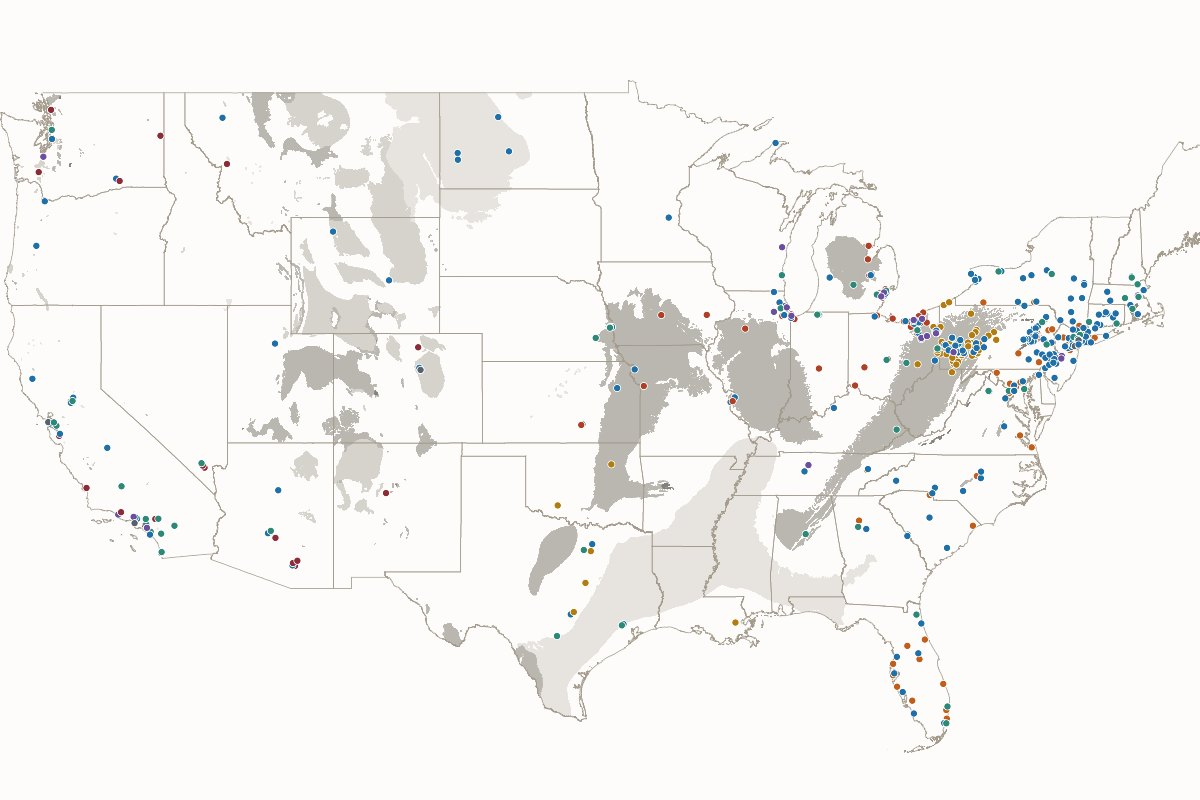
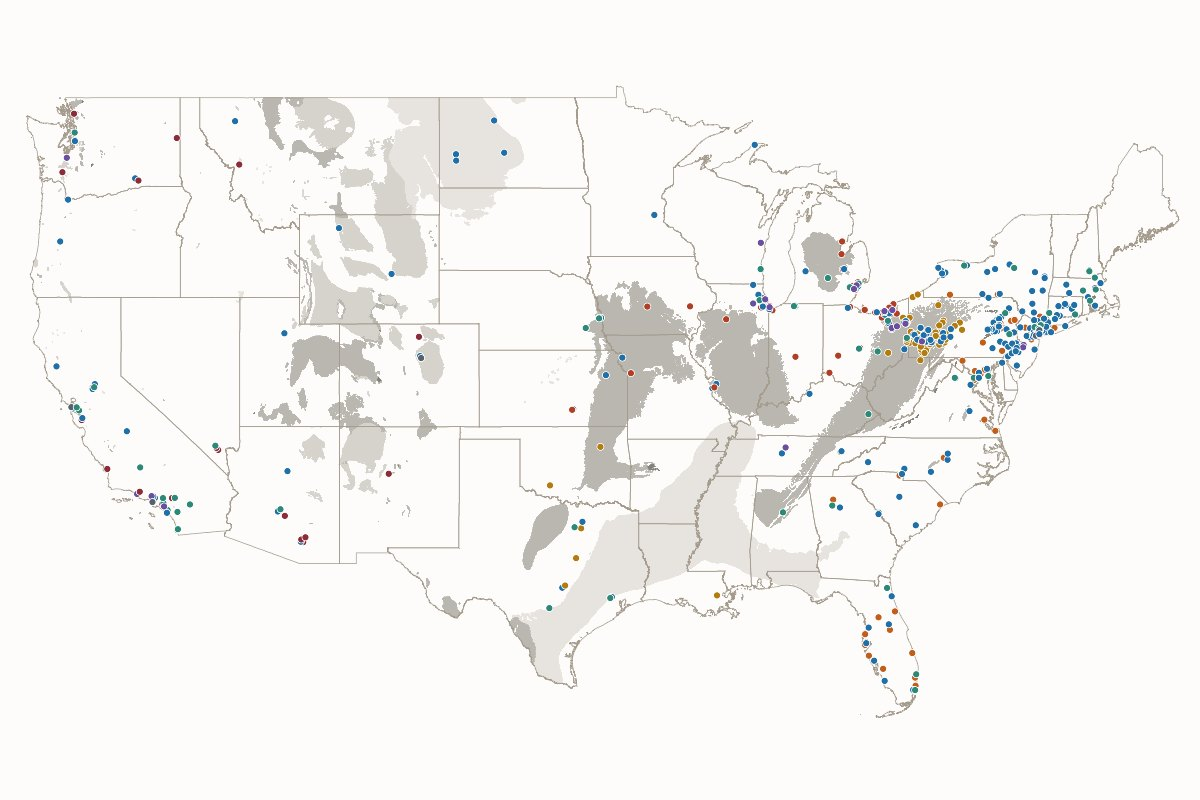
Byzantine map: David's reframed Country view and legend order, Country still recaptured
Claude-Session: https://claude.ai/code/session_01QEC429upHRsNAG5wk5xyyK

diff --git a/maps/byzantine-parishes/index.html b/maps/byzantine-parishes/index.html
@@ -26,7 +26,7 @@
     <link rel="stylesheet" href="/maps/map.css?v=a996302df4">
     <script src="/maps/lib/pmtiles.js" defer></script>
     <script type="module" src="/maps/map.js?v=dae4c55832"></script>
-    <script type="application/json" id="map-def-byzantine-parishes">{"start":"country","bounds":[-179,12,-50,73],"sources":{"vectors":{"type":"vector","url":"vectors.pmtiles"}},"layers":[{"id":"coal","type":"fill","source":"vectors","source-layer":"coal","paint":{"fill-color":["match",["get","rank"],"Anthracite","--map-coal-anthracite",["Low Volatile Bituminous","Medium and High Volatile Bituminous"],"--map-coal-bituminous","Subbituminous","--map-coal-subbituminous","--map-coal-lignite"]}},{"id":"states","type":"line","source":"vectors","source-layer":"states","paint":{"line-color":"--map-contour","line-width":0.7}},{"id":"parishes","type":"circle","source":"vectors","source-layer":"parishes","paint":{"circle-color":["match",["get","grp"],"Ruthenian: Pittsburgh","#B27C10","Ruthenian: Passaic","#C25E1B","Ruthenian: Parma","#B03F27","Ruthenian: Phoenix","#8C2C39","Ukrainian","#1F6FA8","Melkite","#2C8878","Romanian","#6A4FA0","Other","#56616F","#56616F"],"circle-radius":["interpolate",["linear"],["zoom"],3,3,8,6.5],"circle-stroke-color":"--paper","circle-stroke-width":0.8}}],"views":{"country":{"center":[-96.5,38.6],"zoom":3.9,"show":["coal","states","parishes"],"alt":"Map of the United States with Byzantine Catholic parishes as colored points over gray coal fields, the points thickest on and around the Appalachian coal fields from Ohio and Pennsylvania to New York and New Jersey, and scattered across Florida, Texas, Arizona and California.","caption":"The Byzantine Catholic parishes of the United States."},"northeast":{"center":[-77.6,41.2],"zoom":5.7,"show":["coal","states","parishes"],"alt":"Closer view from Ohio to New England over the coal fields, Ruthenian parishes clustered on the bituminous field of western Pennsylvania and Ukrainian and Ruthenian parishes on the small dark anthracite fields of eastern Pennsylvania, with more in New Jersey and New York.","caption":"From Ohio to New England, where most of the parishes are."}},"popup":{"layer":"parishes","title":"{name}","lines":["{city}, {state}","{eparchy}","{sunday_liturgy}"]}}</script>
+    <script type="application/json" id="map-def-byzantine-parishes">{"start":"country","bounds":[-179,12,-50,73],"sources":{"vectors":{"type":"vector","url":"vectors.pmtiles"}},"layers":[{"id":"coal","type":"fill","source":"vectors","source-layer":"coal","paint":{"fill-color":["match",["get","rank"],"Anthracite","--map-coal-anthracite",["Low Volatile Bituminous","Medium and High Volatile Bituminous"],"--map-coal-bituminous","Subbituminous","--map-coal-subbituminous","--map-coal-lignite"]}},{"id":"states","type":"line","source":"vectors","source-layer":"states","paint":{"line-color":"--map-contour","line-width":0.7}},{"id":"parishes","type":"circle","source":"vectors","source-layer":"parishes","paint":{"circle-color":["match",["get","grp"],"Ruthenian: Pittsburgh","#B27C10","Ruthenian: Passaic","#C25E1B","Ruthenian: Parma","#B03F27","Ruthenian: Phoenix","#8C2C39","Ukrainian","#1F6FA8","Melkite","#2C8878","Romanian","#6A4FA0","Other","#56616F","#56616F"],"circle-radius":["interpolate",["linear"],["zoom"],3,3,8,6.5],"circle-stroke-color":"--paper","circle-stroke-width":0.8}}],"views":{"country":{"center":[-95.9865,38.0624],"zoom":3.81,"show":["coal","states","parishes"],"alt":"Map of the United States with Byzantine Catholic parishes as colored points over gray coal fields, the points thickest on and around the Appalachian coal fields from Ohio and Pennsylvania to New York and New Jersey, and scattered across Florida, Texas, Arizona and California.","caption":"The Byzantine Catholic parishes of the United States."},"northeast":{"center":[-77.6,41.2],"zoom":5.7,"show":["coal","states","parishes"],"alt":"Closer view from Ohio to New England over the coal fields, Ruthenian parishes clustered on the bituminous field of western Pennsylvania and Ukrainian and Ruthenian parishes on the small dark anthracite fields of eastern Pennsylvania, with more in New Jersey and New York.","caption":"From Ohio to New England, where most of the parishes are."}},"popup":{"layer":"parishes","title":"{name}","lines":["{city}, {state}","{eparchy}","{sunday_liturgy}"]}}</script>
 </head>
 <body class="wide">
     <header class="site">
@@ -41,15 +41,6 @@
         </header>
         <div class="map-full" data-map="byzantine-parishes" data-view="country"><figure class="still"><img src="/maps/byzantine-parishes/stills/country.jpg" alt="Map of the United States with Byzantine Catholic parishes as colored points over gray coal fields, the points thickest on and around the Appalachian coal fields from Ohio and Pennsylvania to New York and New Jersey, and scattered across Florida, Texas, Arizona and California." width="1200" height="800" style="display: block; width: 100%; max-width: 100%; height: auto;"><figcaption>The Byzantine Catholic parishes of the United States.</figcaption></figure></div>
         <div class="map-legend">
-            <div>
-                <h3>Coal Fields</h3>
-                <ul>
-                    <li><span class="swatch" style="background: var(--map-coal-anthracite)"></span><span>Anthracite</span></li>
-                    <li><span class="swatch" style="background: var(--map-coal-bituminous)"></span><span>Bituminous</span></li>
-                    <li><span class="swatch" style="background: var(--map-coal-subbituminous)"></span><span>Subbituminous</span></li>
-                    <li><span class="swatch" style="background: var(--map-coal-lignite)"></span><span>Lignite</span></li>
-                </ul>
-            </div>
             <div>
                 <h3>Ruthenian</h3>
                 <ul>
@@ -66,6 +57,15 @@
                     <li><span class="swatch dot" style="background: #2C8878"></span><span>Melkite</span></li>
                     <li><span class="swatch dot" style="background: #6A4FA0"></span><span>Romanian</span></li>
                     <li><span class="swatch dot" style="background: #56616F"></span><span>Italo-Albanian, Russian, Belarusian</span></li>
+                </ul>
+            </div>
+            <div>
+                <h3>Coal Fields</h3>
+                <ul>
+                    <li><span class="swatch" style="background: var(--map-coal-anthracite)"></span><span>Anthracite</span></li>
+                    <li><span class="swatch" style="background: var(--map-coal-bituminous)"></span><span>Bituminous</span></li>
+                    <li><span class="swatch" style="background: var(--map-coal-subbituminous)"></span><span>Subbituminous</span></li>
+                    <li><span class="swatch" style="background: var(--map-coal-lignite)"></span><span>Lignite</span></li>
                 </ul>
             </div>
         </div>
